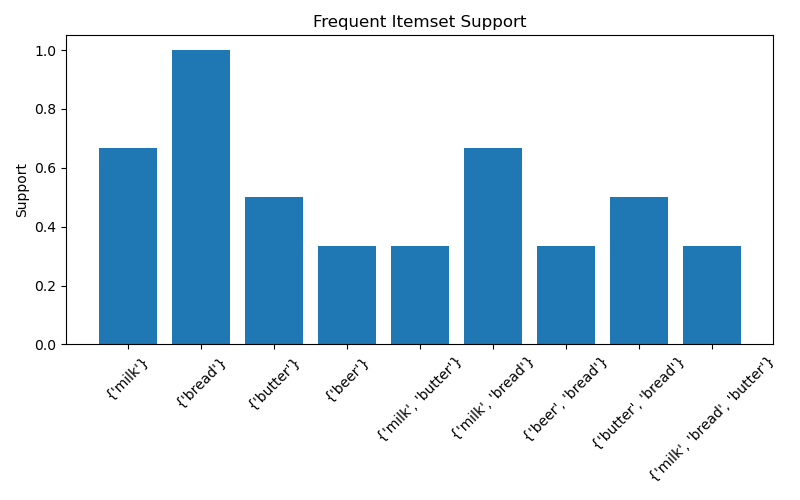
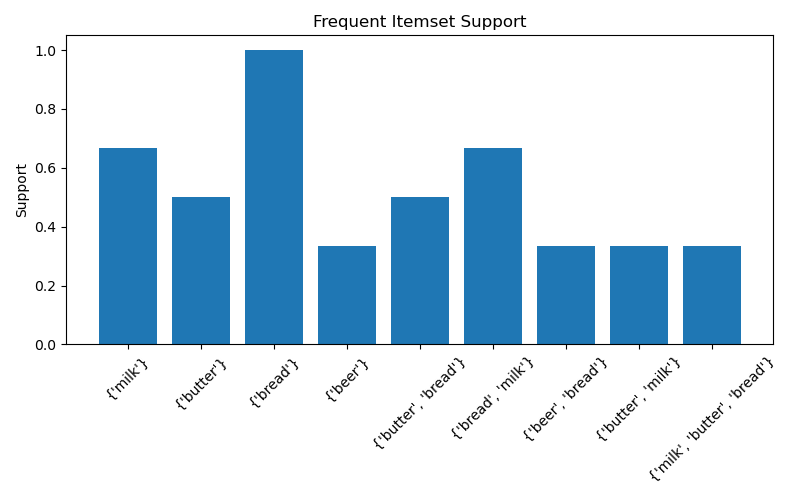
Added FP-Growth association rule algorithm from scratch

diff --git a/unsupervised_learning/association_rules/fp_growth/model.py b/unsupervised_learning/association_rules/fp_growth/model.py
@@ -1,0 +1,51 @@
+"""
+FP-Growth Algorithm implemented from scratch.
+
+Author: Kavya Gada
+Purpose: Efficient frequent pattern mining without candidate generation.
+"""
+
+from collections import defaultdict
+from itertools import combinations
+
+
+class FPGrowthScratch:
+
+    def __init__(self, min_support=0.3):
+
+        self.min_support = min_support
+        self.frequent_patterns = {}
+
+    def _get_support(self, transactions, itemset):
+
+        count = 0
+
+        for t in transactions:
+            if itemset.issubset(t):
+                count += 1
+
+        return count / len(transactions)
+
+    def fit(self, transactions):
+
+        items = set()
+
+        for t in transactions:
+            items.update(t)
+
+        items = list(items)
+
+        for k in range(1, len(items) + 1):
+
+            for combo in combinations(items, k):
+
+                itemset = frozenset(combo)
+
+                support = self._get_support(transactions, itemset)
+
+                if support >= self.min_support:
+                    self.frequent_patterns[itemset] = support
+
+    def predict(self):
+
+        return self.frequent_patterns

diff --git a/unsupervised_learning/association_rules/fp_growth/train.py b/unsupervised_learning/association_rules/fp_growth/train.py
@@ -1,0 +1,63 @@
+"""
+Training script for FP-Growth from scratch
+"""
+
+import matplotlib.pyplot as plt
+
+from model import FPGrowthScratch
+
+
+# Example market basket dataset
+transactions = [
+    {"milk", "bread", "butter"},
+    {"bread", "beer"},
+    {"milk", "bread", "beer"},
+    {"milk", "bread", "butter"},
+    {"bread", "butter"},
+    {"milk", "bread"},
+]
+
+
+# Train model
+model = FPGrowthScratch(min_support=0.3)
+
+model.fit(transactions)
+
+patterns = model.predict()
+
+
+print("Frequent Patterns:")
+
+for itemset, support in patterns.items():
+    print(set(itemset), support)
+
+
+# Save metrics
+with open("metrics.txt", "w") as f:
+
+    f.write("FP-Growth Frequent Patterns\n")
+
+    for itemset, support in patterns.items():
+        f.write(f"{set(itemset)} : {support}\n")
+
+
+# Visualization
+labels = [str(set(i)) for i in patterns.keys()]
+values = list(patterns.values())
+
+
+plt.figure(figsize=(8,5))
+
+plt.bar(labels, values)
+
+plt.xticks(rotation=45)
+
+plt.ylabel("Support")
+
+plt.title("FP-Growth Frequent Pattern Support")
+
+plt.tight_layout()
+
+plt.savefig("fp_growth_support_plot.png")
+
+plt.show()
